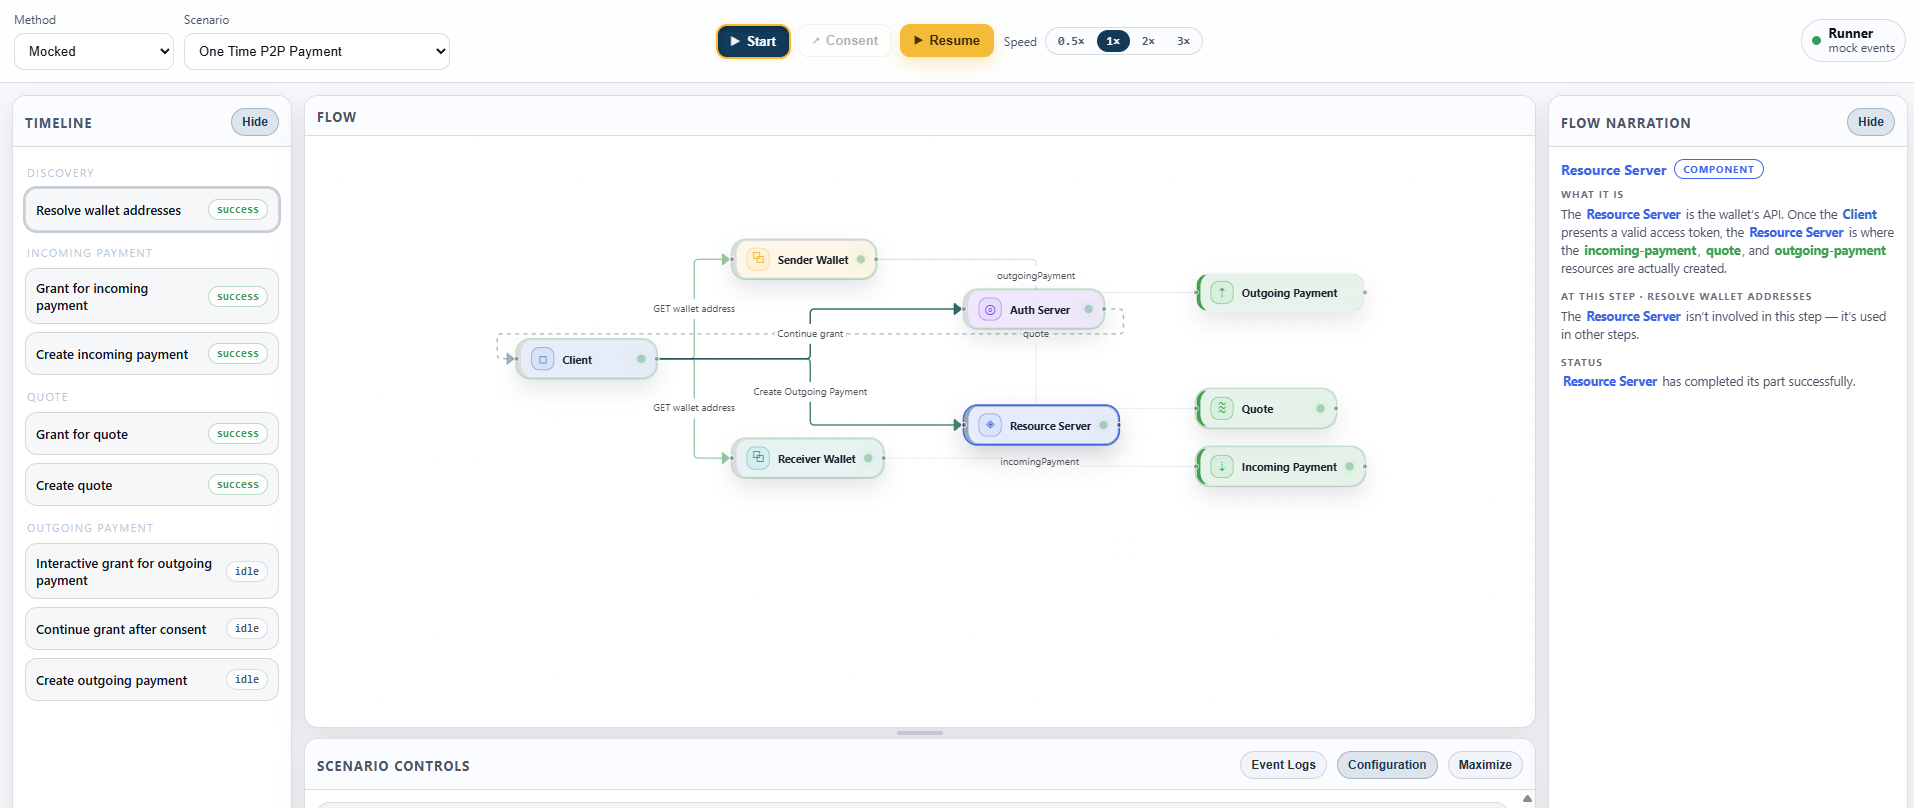
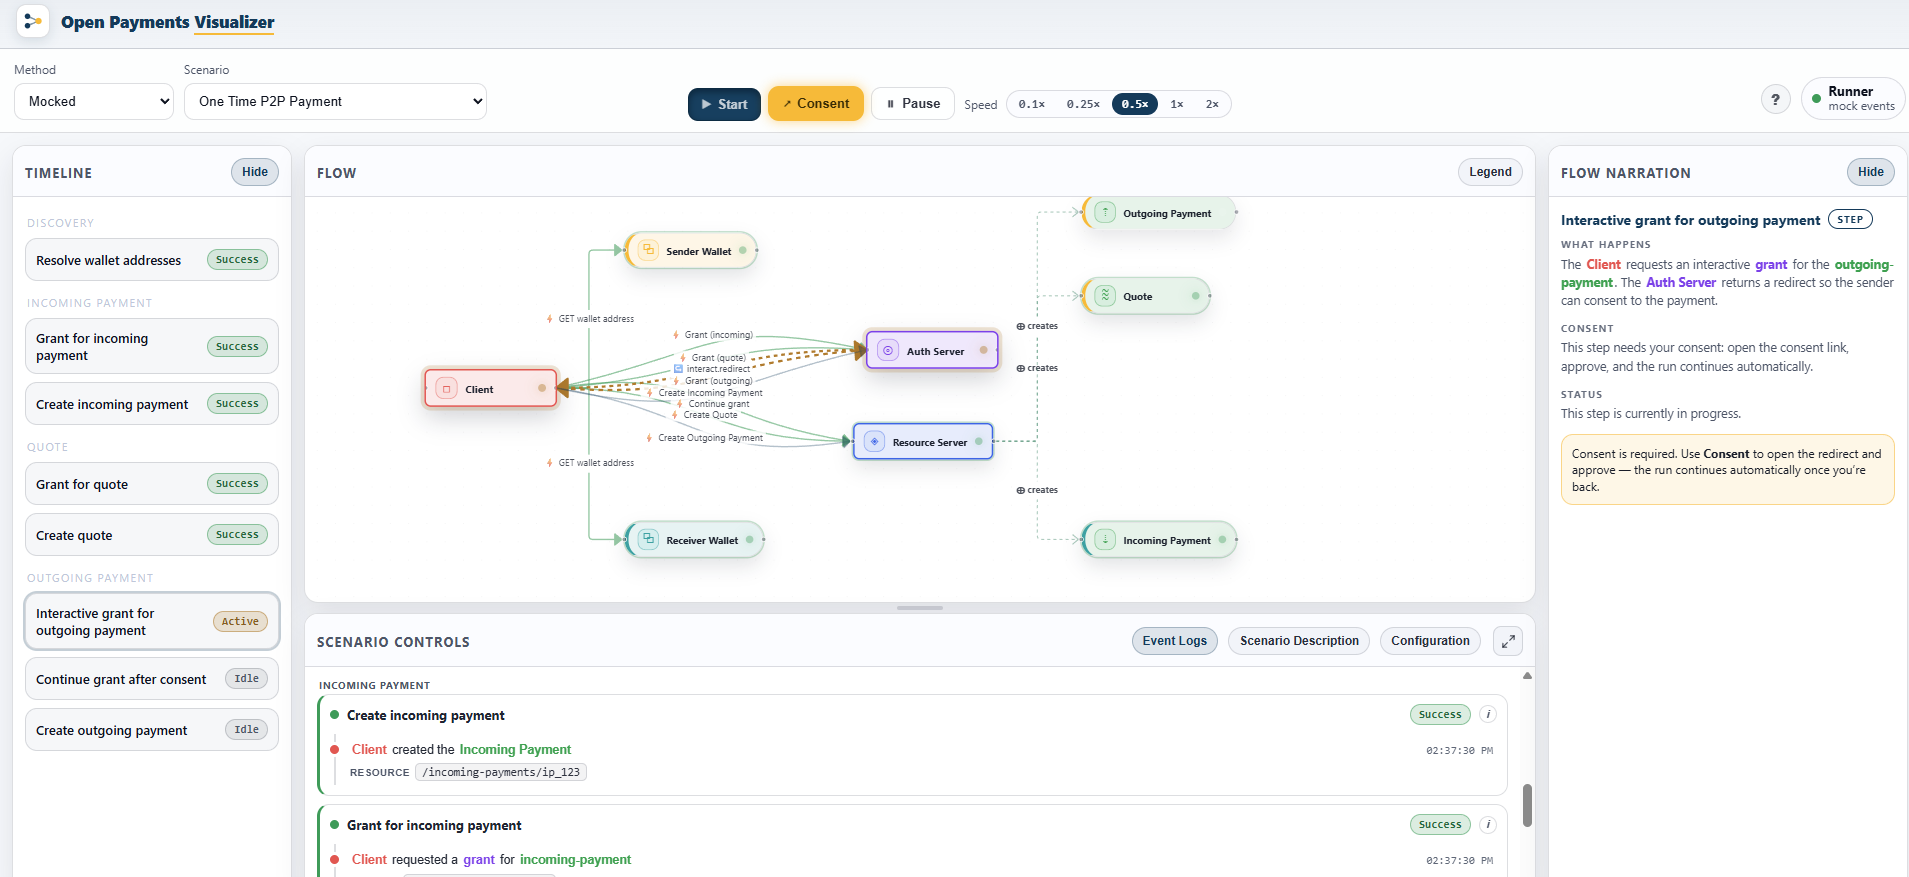
Updated readme

diff --git a/README.md b/README.md
@@ -73,6 +73,10 @@ with `Ctrl+C`.
 The timeline, graph, and narration follow the run automatically. Click any step, node, or
 arrow at any time to pin the explanation panel to it.
 
+On first load a short **welcome guide** explains the basics and suggests a scenario order; reopen
+it anytime with the **?** button in the header. The **Legend** button (top-right of the Flow
+panel) decodes the graph's symbols, colours, and arrow styles.
+
 ### TestNet mode (real run)
 
 1. Complete the [TestNet setup](#testnet-setup) below.
@@ -128,8 +132,8 @@ Runner (`apps/runner`):
 
 - **"Consent timed out"** — you didn't complete the consent redirect within `CONSENT_TIMEOUT_MS`.
   Press Start again, then Consent, and approve promptly (raise `CONSENT_TIMEOUT_MS` if needed).
-- **"Callback port … is already in use"** — a previous callback server is still bound. Stop any
-  leftover runner process, or set a different **Callback port** in the Configuration tab.
+- **"Callback port … is already in use"** — a previous callback server (default port `3999`) is
+  still bound. Stop any leftover runner process and start the run again to free it.
 - **Grant continuation error** — the consent wasn't completed, expired, or was already used.
   Start the run again.
 - **The failing step turns red** in the timeline and graph; open the **Event Logs** tab for the